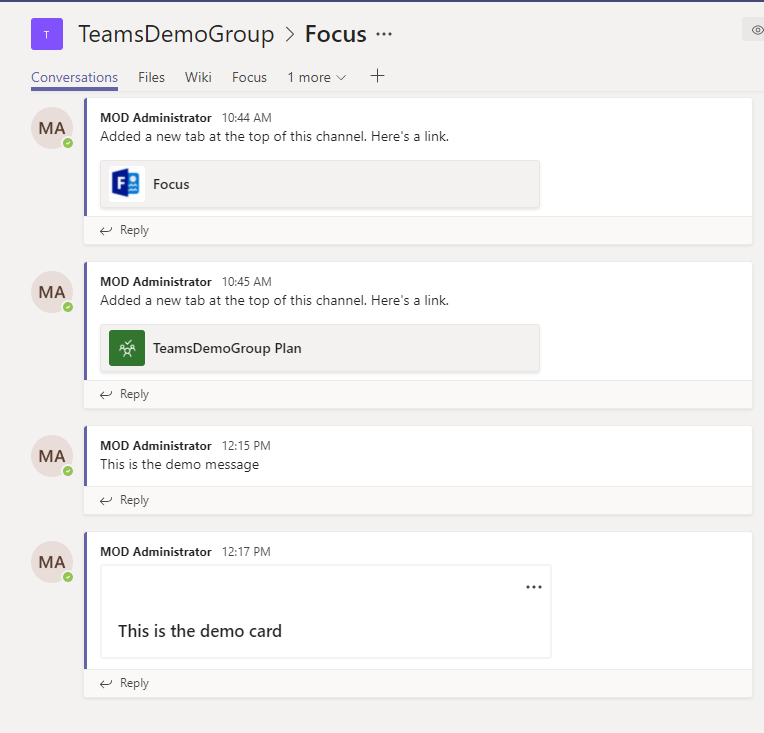
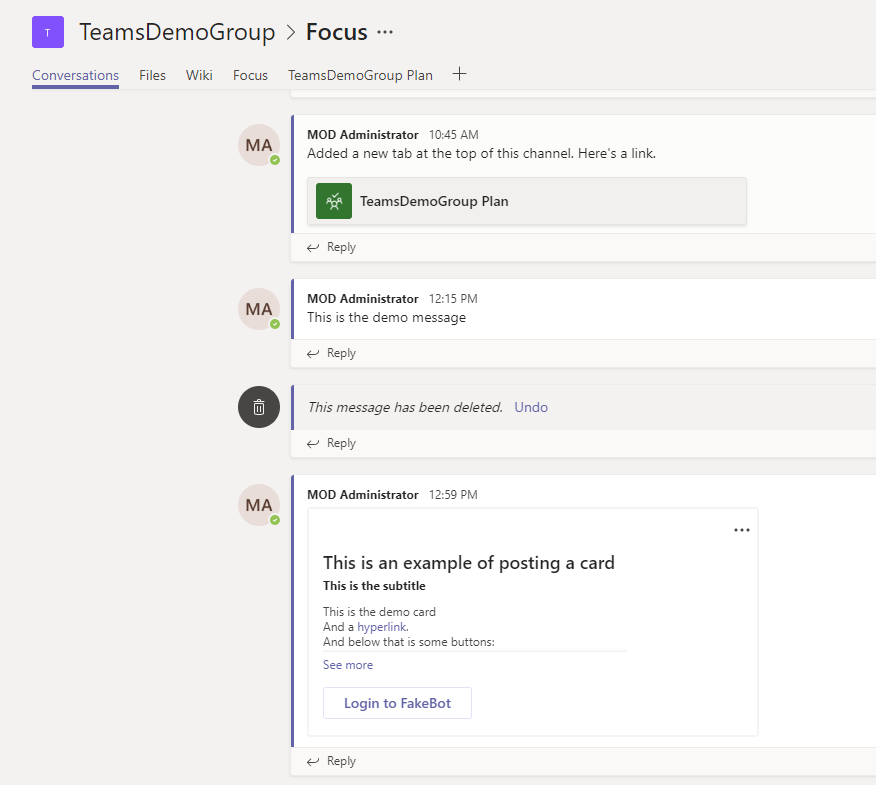
Update the teams workshop module 3 content

diff --git a/exercises/Teams/3.Post Teams Message and Card.md b/exercises/Teams/3.Post Teams Message and Card.md
@@ -9,7 +9,7 @@ In this module you will set up the Focus app inside in Teams channel created at 
 ![Channel Message](imgs/demomessage.PNG "Channel Message")
 
 ## Post Teams card
-1. Read the [document](https://docs.microsoft.com/en-us/graph/api/channel-post-messages?view=graph-rest-beta&tabs=http) for how to post a message into teams channel
+1. Read the [document](https://docs.microsoft.com/en-us/graph/api/channel-post-messages?view=graph-rest-beta&tabs=http) for how to post a card into teams channel
 2. Implement the SendCard function in Scripts/teamsapp.js
 3. Select a object in the image, and click the "Send As Card" button in the pop-up menu, you will see the posted card if your code is correct
 ![Send As Card button](imgs/postCard.PNG "Send As Card button")
